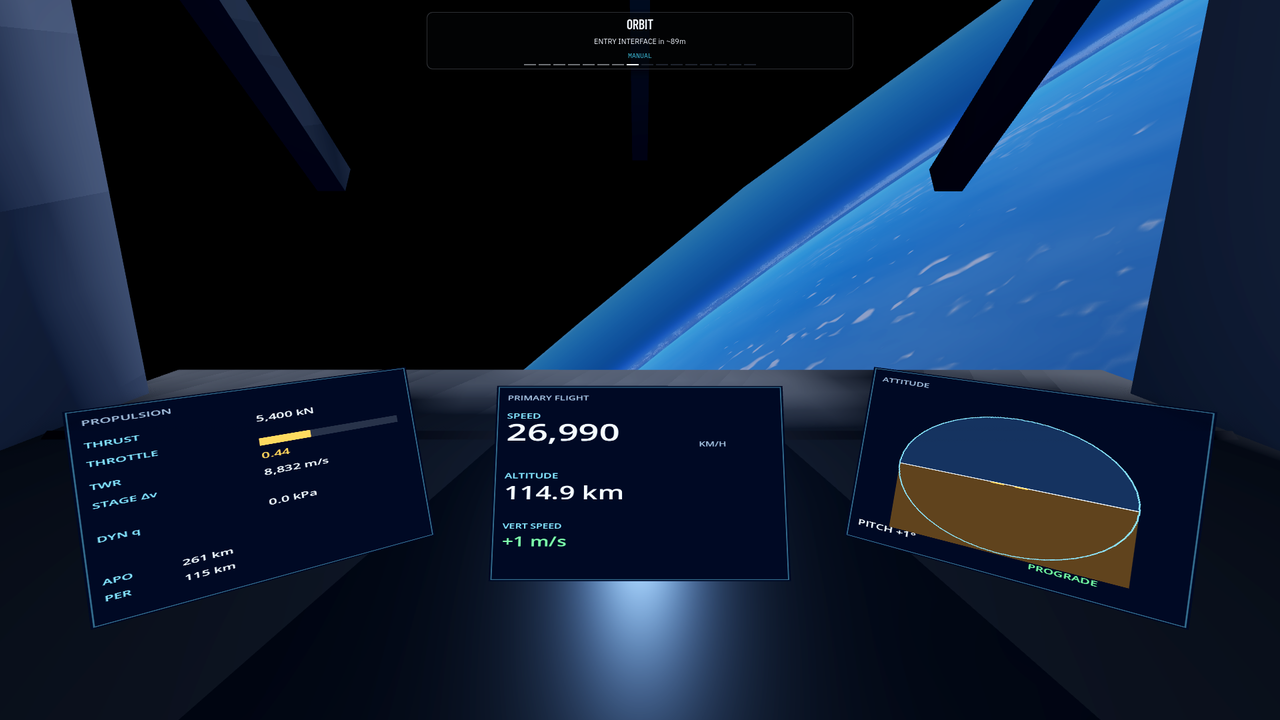
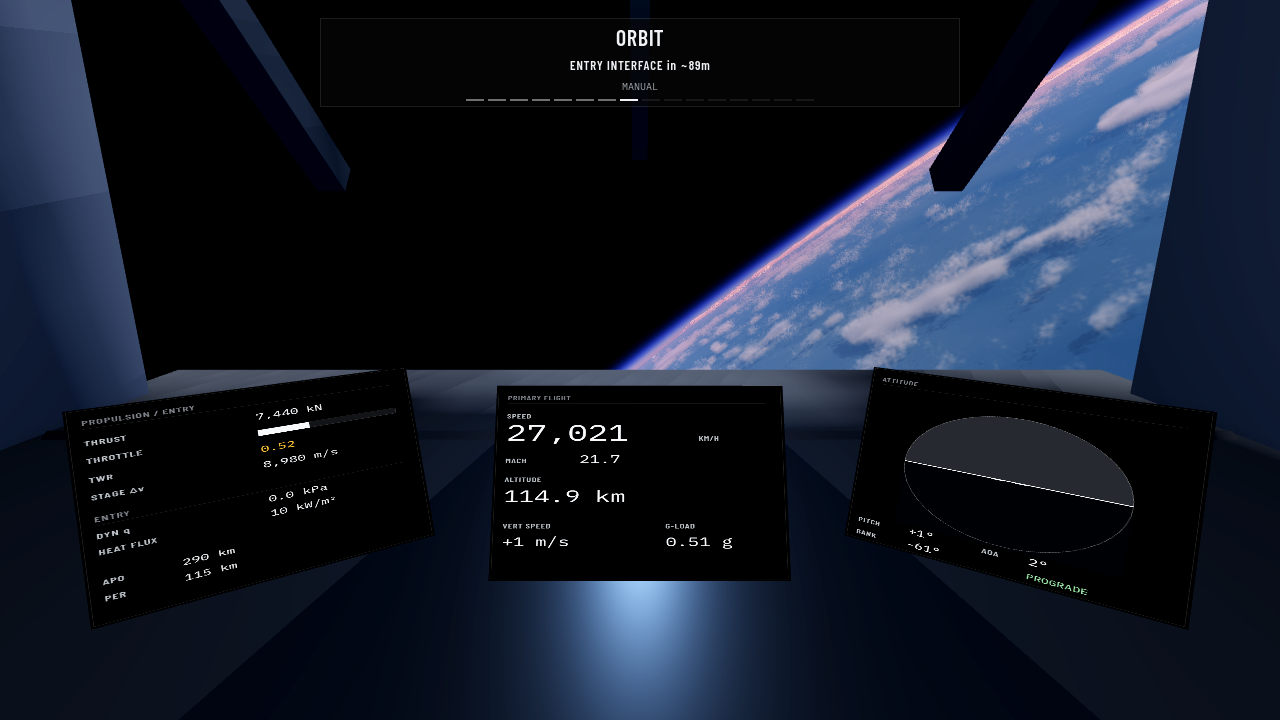
docs: refresh simulator screenshot gallery

diff --git a/docs/screenshots/README.md b/docs/screenshots/README.md
@@ -1,0 +1,61 @@
+# Screenshot provenance
+
+Gallery refreshed on 2026-10-03 against simulator source revision
+`0b6aab5065fc86891abc6aae1e3847a2f50936d6`. These are unedited Godot framebuffer
+captures. Each prepared scene is described below; they are not a continuous
+reconstruction of the actual Flight 14 mission. Research figures and source video
+frames elsewhere in `docs/` retain their historical meaning.
+
+| File | Scene and source | Resolution |
+| --- | --- | --- |
+| `menu.png` | Current operations menu; `menu_quick_check.py --case home-1280` | 1280 × 720 |
+| `pad.png` | Flight 12 V3 at Starbase; `visual_playtest.sh --smoke --flight12 --camera-preset pad_side` | 1280 × 720 |
+| `orbit.png` | Flight 12 V3 prepared orbital-plume scene, using the production staging/jump and rendering paths | 1920 × 1080 |
+| `cockpit.png` | Simulator cockpit; prepared 118 km geocentric orbit (HUD around 114.9 km geodetic altitude) | 1280 × 720 |
+| `entry.png` | Default Starship IFT-7 prepared 70 km entry, captured during descent around 65.3 km | 1280 × 720 |
+| `water-motion.png` | Seeded Flight 14 terminal bench at contact +10.02 s; original working-tree implementation committed as the revision above | 1280 × 720 |
+
+## Rendering and checks
+
+Fresh menu, pad, orbital, cockpit and entry captures use the Quality profile with
+OpenGL3/Compatibility under Xvfb. The water bench uses the same resolved Quality
+profile and renderer. The renderer here is software; these screenshots do not
+measure performance on the target integrated GPU.
+
+Pad, orbital-plume and cockpit harnesses passed their existing gates, and the
+menu check passed layout/focus verification. The orbital-plume gate requires
+1920 × 1080; an initial 1280 × 720 capture was rejected for its dimensions and
+was replaced by the accepted native-resolution run. No gate was weakened.
+The entry capture used the public `BeginReentryDemonstration(true)` scenario,
+advanced sixty rendered frames, paused with `SetTimeScale(0)`, and settled for
+eighteen frames before saving. Its completed log contains no script/shader errors.
+All six published images were decoded and inspected visually.
+
+The water bench was inspected and physically checked separately in
+[the water-motion audit](../audits/flight14_water_motion_2026-10-03.md).
+The hull is sealed and physical waves/flooding remain unmodelled. Its daylight,
+sea state and heeling timing are engineering presentation/model results, not
+source-backed Flight 14 weather or capsize timing.
+
+## Reproduce the standard captures
+
+Run each harness sequentially because its temporary autoload owns `project.godot`.
+Each invocation removes the helper and restores the project when it exits.
+
+```bash
+EXOSPHERE_GRAPHICS_PRESET=quality bash tools/visual_playtest.sh \
+  --smoke --flight12 --camera-preset pad_side --resolution 1280x720 \
+  --run-id gallery-pad-20261003
+EXOSPHERE_GRAPHICS_PRESET=quality bash tools/visual_playtest.sh \
+  --orbital-plume --flight12 --run-id gallery-orbit-native-20261003
+EXOSPHERE_GRAPHICS_PRESET=quality bash tools/visual_playtest.sh \
+  --cockpit --flight12 --resolution 1280x720 --run-id gallery-cockpit-20261003
+EXOSPHERE_GRAPHICS_PRESET=quality python3 tools/menu_quick_check.py \
+  --skip-build --case home-1280 --output exports/repository-gallery-20261003
+```
+
+Capture logs, image copies and the temporary entry script are preserved locally in
+`exports/repository-gallery-20261003/`. The seeded terminal script and its logs are
+in `exports/flight14-water-motion-review/`. These ignored directories are review
+artifacts; temporary scripts/autoloads are not part of the shipped game.
+The published PNG checksums are in [manifest.json](manifest.json).

diff --git a/README.md b/README.md
@@ -6,21 +6,31 @@ There is no installer yet. You play by opening the source in the Godot .NET edit
 
 ## Screenshots
 
+Captured from the current simulator on 2026-10-03. Prepared scenes and the water-motion bench are labelled below; this gallery is not evidence of a reconstructed full Flight 14 mission. [Capture provenance](docs/screenshots/README.md).
+
+![Centered flight operations menu](docs/screenshots/menu.png)
+
+*Flight operations menu with direct access to Flight 14 exploration and free flight.*
+
 ![Starship on the Starbase pad before launch](docs/screenshots/pad.png)
 
-*Starship on the Starbase pad before launch.*
+*Starship Flight 12 V3 on the Starbase pad, with the current broadcast telemetry.*
 
-![Earth limb from low orbit](docs/screenshots/orbit.png)
+![Starship over Earth's limb in a prepared orbital scene](docs/screenshots/orbit.png)
 
-*Earth limb from low orbit, with the flight HUD.*
+*Prepared orbital Starship scene with the current Earth limb, vacuum plume and telemetry.*
 
-![Cockpit view over the day side](docs/screenshots/cockpit.png)
+![Simulator cockpit in a prepared low-orbit scene](docs/screenshots/cockpit.png)
 
-*Cockpit view over the day side as entry interface approaches.*
+*Simulator cockpit in a prepared low-orbit scene.*
 
-![Starship at entry interface](docs/screenshots/entry.png)
+![Starship in the prepared atmospheric entry scenario](docs/screenshots/entry.png)
 
-*Starship at entry interface, about 67 km, nose toward Earth.*
+*Starship descending in the prepared 70 km atmospheric-entry scenario.*
+
+![Sealed-hull water-motion bench after ten seconds](docs/screenshots/water-motion.png)
+
+*Seeded terminal bench after ten seconds of calculated water motion. Estimated sealed-hull heeling; flooding and real capsize timing remain unmodelled.*
 
 ## Play
 
